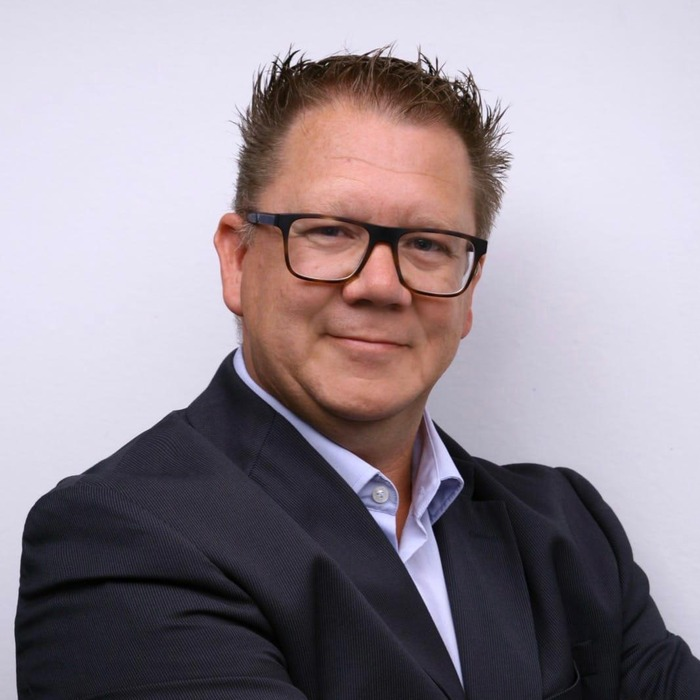
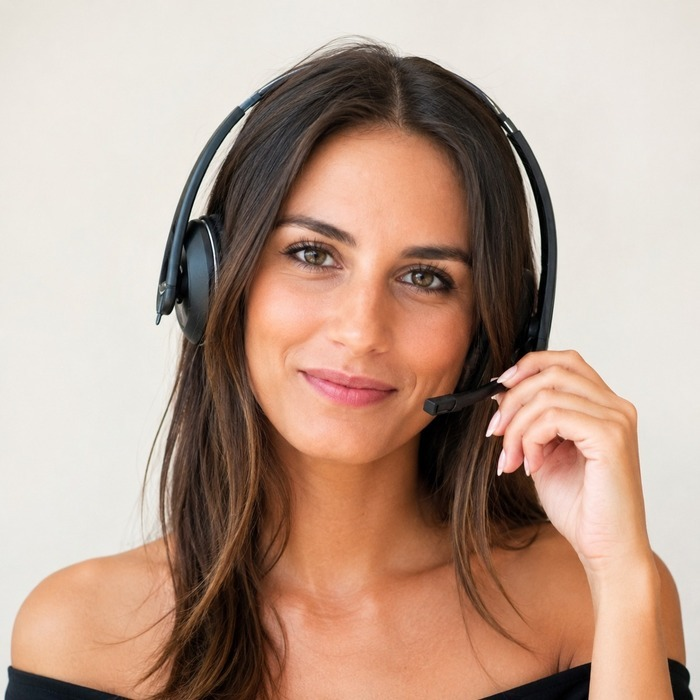
fix: remove H. Leon testimonial, correct D. Berger crop, swap J. Berger/M. Will photos
- Remove H. Leon entry from Testimonials (no longer on team)
- Re-download and re-crop D. Berger photo from source
- Swap berger_j.jpg and will.jpg — faces were assigned to wrong files

https://claude.ai/code/session_01SV376SSg5x8oeA3TT3tjNE

diff --git a/src/components/sections/Testimonials.tsx b/src/components/sections/Testimonials.tsx
@@ -24,15 +24,6 @@ const stories = [
     metricLabel: "Energiemarkt-Expertise"
   },
   {
-    name: "H. Leon",
-    role: "Gründer & Geschäftsführer",
-    avatar: "/media/team/leon.webp",
-    quote:
-      "Wir bauen den Vertrieb, der Energielösungen einfach macht. Schneller zum richtigen Tarif, klarer zum nächsten Deal — und mit jedem Schritt skalierbar.",
-    metric: "Co-Founder",
-    metricLabel: "Vision & Strategie"
-  },
-  {
     name: "M. Mory",
     role: "Rookie",
     avatar: "/media/team/mory.webp",